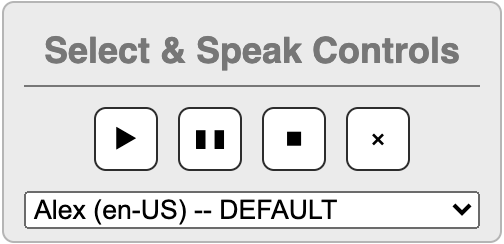
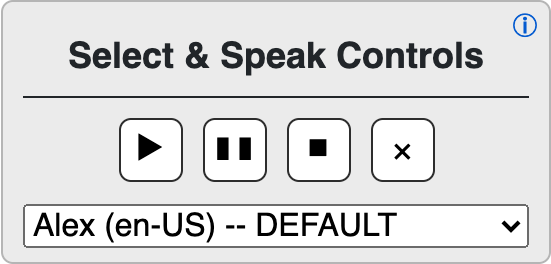
Added "i" button that references project website Updated screenshot

Changed region(s): [[0.0, 0.0, 1.0, 1.0], [0.1786, 0.4303, 0.8333, 0.7172], [0.0893, 0.1434, 0.9226, 0.2869]]

diff --git a/src/selectnspeak.js b/src/selectnspeak.js
@@ -26,6 +26,8 @@ javascript:(function(){
 		w = window,
 		control_id = 'selectnspeak_bk_control',
 		control = d.getElementById(control_id),
+		sns_url = 'https://github.com/leonar15/SelectNSpeak',
+		sns_version = '0.2',
 		border_radius = 'border-radius: 6px;',
 		voices = [],
 		voice_select,
@@ -34,25 +36,23 @@ javascript:(function(){
 		s,
 		spk = new SpeechSynthesisUtterance,
 		wss = w.speechSynthesis;
-	
-	// create the controls if 
+
+	// create the controls
 	if (!control) {
-		control = create_element('div',[['draggable', true]]);
+		control = create_element('div', [['draggable', true]], 'font-family:sans-serif;border:1px solid #bdbdbd;padding: 6px 10px;position: fixed;top: 10px; left: 10px;background-color:rgba(236,236,236,0.9);width: 275px;text-align: center;z-index:9999999;box-shadow: 0px 0px 17px -3px rgba(255,255,255,1);font-size:16px;box-sizing:border-box;' + border_radius);
 		control.id = control_id;
-		control.style.cssText = 'font-family:sans-serif;border:1px solid #bdbdbd;padding: 6px 10px;position: fixed;top: 10px; left: 10px;background-color:rgba(236,236,236,0.9);width: 250px;text-align: center;z-index:9999999;box-shadow: 0px 0px 17px -3px rgba(255,255,255,1);font-size:16px;box-sizing:border-box;' + border_radius;
-		control.innerHTML = '<div style="font-size:18px;font-weight:600;border-bottom:1px solid;padding: 7px 0;">Select &amp; Speak Controls</div>';
-	
+		control.innerHTML = '<div style="font-size:18px;font-weight:600;border-bottom:1px solid;padding:7px 0;">Select &amp; Speak Controls <a title="Select &amp; Speak v'+ sns_version +'" href="' + sns_url + '" style="position:absolute;top:3px;right:6px;font-size:12px;">&#9432;</a></div>';
+
 		// ref: https://developer.mozilla.org/en-US/docs/Web/API/SpeechSynthesis
-		voice_select = create_element('select');
-		voice_select.style.cssText = 'width: 100%;';
-		
+		voice_select = create_element('select', null, 'width:100%;');
+
 		// add an instructional option
 		voice_select_instruct = d.createElement('option');
 		voice_select_instruct.disabled = true;
 		voice_select_instruct.textContent = 'Select a voice:';
 		voice_select.append(voice_select_instruct);
 		voice_select.onchange = get_selection_and_play;
-		
+
 		// append voice selection
 		voices = wss.getVoices();
 		// note: voices load asynchronously, this avoids loading an empty list
@@ -63,15 +63,15 @@ javascript:(function(){
 					['value', index]
 				]);
 				option.textContent = voice.name + ' (' + voice.lang + ')';
-				
+
 				if (voice.default) {
 					option.selected = true;
 					option.textContent += ' -- DEFAULT';
 				}
-				
+
 				voice_select.append(option);
 			})}, 30);
-	
+
 		control.append(
 			// play button
 			create_button('&#9654;', 'Speak current selection', get_selection_and_play),
@@ -95,9 +95,9 @@ javascript:(function(){
 	} else {
 		voice_select = control.getelementsByTagName('select')[0];
 	}
-	
+
 	get_selection_and_play();
-	
+
 	function get_selection_and_play(){
 		// grab the selected text
 		if (w.getSelection) {
@@ -105,10 +105,10 @@ javascript:(function(){
 		} else if ((s = w.selection) && s.type == "Text") {
 			selected_text = s.createRange().htmlText;
 		}
-		
+
 		// stop any current speaking
 		stop_playback();
-		
+
 		// speak now if anything was selected
 		if (selected_text.length) {
 			spk.text = selected_text;
@@ -118,17 +118,17 @@ javascript:(function(){
 			alert('Select & Speak: Please select some text before pressing play.');
 		}
 	}
-	
+
 	function get_selected_voice(){
 		var selected = voice_select.selectedOptions;
-		
+
 		return selected && selected.length ? voices[selected[0].value] : null;
 	}
-	
+
 	function stop_playback(){
 		wss.cancel();
 	}
-	
+
 	function create_element(tag, attrs, style){
 		var e = d.createElement(tag);
 		if (attrs) {
@@ -141,7 +141,7 @@ javascript:(function(){
 	}
 
 	function create_button(btn_text, title, on_click){
-		var btn = create_element('button', null, 'margin:10px 5px;vertical-align:middle;height:32px;width:32px;background-color:white;color:black; border:1px solid #333;white-space:nowrap;padding:2px;' + border_radius);
+		var btn = create_element('button', null, 'margin:10px 5px;vertical-align:middle;height:32px;width:32px;background-color:white;color:black;border:1px solid #333;white-space:nowrap;padding:2px;' + border_radius);
 		btn.innerHTML = btn_text;
 		btn.title = title;
 		btn.onclick = on_click;

diff --git a/src/selectnspeak.min.js b/src/selectnspeak.min.js
@@ -1,1 +1,1 @@
-javascript:(function(){var e,t,n,o=document,a=window,i=o.getElementById("selectnspeak_bk_control"),l=[],s="",p=new SpeechSynthesisUtterance,c=a.speechSynthesis;function r(){var t;a.getSelection?s=a.getSelection().toString():(n=a.selection)&&"Text"==n.type&&(s=n.createRange().htmlText),d(),s.length?(p.text=s,p.voice=(t=e.selectedOptions)&&t.length?l[t[0].value]:null,c.speak(p)):alert("Select & Speak: Please select some text before pressing play.")}function d(){c.cancel()}function x(e,t,n){var a=o.createElement(e);return t&&t.forEach(e=>{a.setAttribute(e[0],e[1])}),n&&(a.style.cssText=n),a}function g(e,t,n){var o=x("button",null,"margin:10px 5px;vertical-align:middle;height:32px;width:32px;background-color:white;color:black; border:1px solid #333;white-space:nowrap;padding:2px;border-radius: 6px;");return o.innerHTML=e,o.title=t,o.onclick=n,o}i?e=i.getelementsByTagName("select")[0]:((i=x("div",[["draggable",!0]])).id="selectnspeak_bk_control",i.style.cssText="font-family:sans-serif;border:1px solid #bdbdbd;padding: 6px 10px;position: fixed;top: 10px; left: 10px;background-color:rgba(236,236,236,0.9);width: 250px;text-align: center;z-index:9999999;box-shadow: 0px 0px 17px -3px rgba(255,255,255,1);font-size:16px;box-sizing:border-box;border-radius: 6px;",i.innerHTML='<div style="font-size:18px;font-weight:600;border-bottom:1px solid;padding: 7px 0;">Select &amp; Speak Controls</div>',(e=x("select")).style.cssText="width: 100%;",(t=o.createElement("option")).disabled=!0,t.textContent="Select a voice:",e.append(t),e.onchange=r,l=c.getVoices(),setTimeout((function(){(l=c.getVoices()).forEach((t,n)=>{var o=x("option",[["value",n]]);o.textContent=t.name+" ("+t.lang+")",t.default&&(o.selected=!0,o.textContent+=" -- DEFAULT"),e.append(o)})}),30),i.append(g("&#9654;","Speak current selection",r),g("&#10074; &#10074;","Pause/Unpause",(function(){c.speaking&&c.paused?c.resume():c.pause()})),g("&#9724;","Stop all playback",d),g("&times;","Stop playback & Close controls",(function(){d(),i.parentNode.removeChild(i)})),e),o.body.append(i)),r()})();
+javascript:(function(){var e,t,n,o=document,a=window,i=o.getElementById("selectnspeak_bk_control"),l=[],p="",r=new SpeechSynthesisUtterance,s=a.speechSynthesis;function c(){var t;a.getSelection?p=a.getSelection().toString():(n=a.selection)&&"Text"==n.type&&(p=n.createRange().htmlText),d(),p.length?(r.text=p,r.voice=(t=e.selectedOptions)&&t.length?l[t[0].value]:null,s.speak(r)):alert("Select & Speak: Please select some text before pressing play.")}function d(){s.cancel()}function x(e,t,n){var a=o.createElement(e);return t&&t.forEach(e=>{a.setAttribute(e[0],e[1])}),n&&(a.style.cssText=n),a}function g(e,t,n){var o=x("button",null,"margin:10px 5px;vertical-align:middle;height:32px;width:32px;background-color:white;color:black;border:1px solid #333;white-space:nowrap;padding:2px;border-radius: 6px;");return o.innerHTML=e,o.title=t,o.onclick=n,o}i?e=i.getelementsByTagName("select")[0]:((i=x("div",[["draggable",!0]],"font-family:sans-serif;border:1px solid #bdbdbd;padding: 6px 10px;position: fixed;top: 10px; left: 10px;background-color:rgba(236,236,236,0.9);width: 275px;text-align: center;z-index:9999999;box-shadow: 0px 0px 17px -3px rgba(255,255,255,1);font-size:16px;box-sizing:border-box;border-radius: 6px;")).id="selectnspeak_bk_control",i.innerHTML='<div style="font-size:18px;font-weight:600;border-bottom:1px solid;padding:7px 0;">Select &amp; Speak Controls <a title="Select &amp; Speak v0.2" href="https://github.com/leonar15/SelectNSpeak" style="position:absolute;top:3px;right:6px;font-size:12px;">&#9432;</a></div>',e=x("select",null,"width:100%;"),(t=o.createElement("option")).disabled=!0,t.textContent="Select a voice:",e.append(t),e.onchange=c,l=s.getVoices(),setTimeout((function(){(l=s.getVoices()).forEach((t,n)=>{var o=x("option",[["value",n]]);o.textContent=t.name+" ("+t.lang+")",t.default&&(o.selected=!0,o.textContent+=" -- DEFAULT"),e.append(o)})}),30),i.append(g("&#9654;","Speak current selection",c),g("&#10074; &#10074;","Pause/Unpause",(function(){s.speaking&&s.paused?s.resume():s.pause()})),g("&#9724;","Stop all playback",d),g("&times;","Stop playback & Close controls",(function(){d(),i.parentNode.removeChild(i)})),e),o.body.append(i)),c()})();
